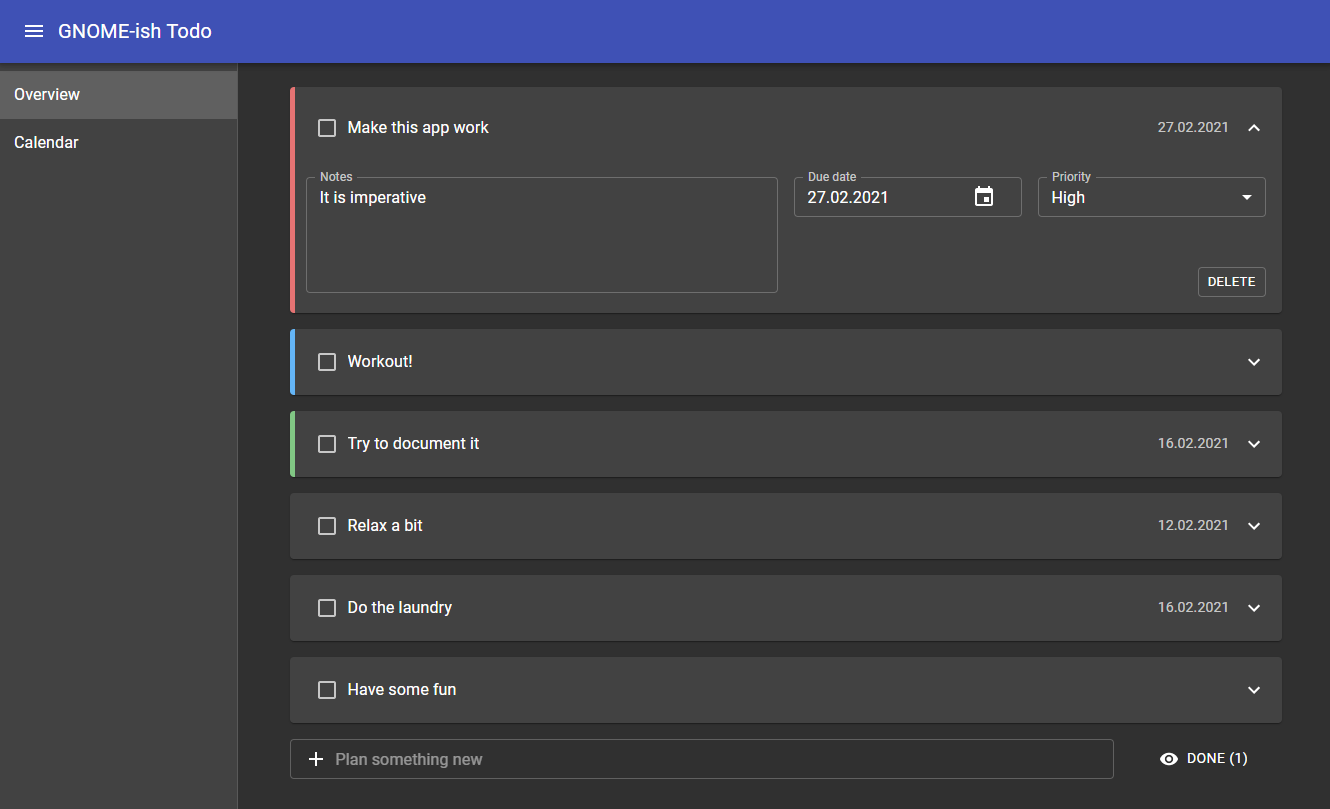
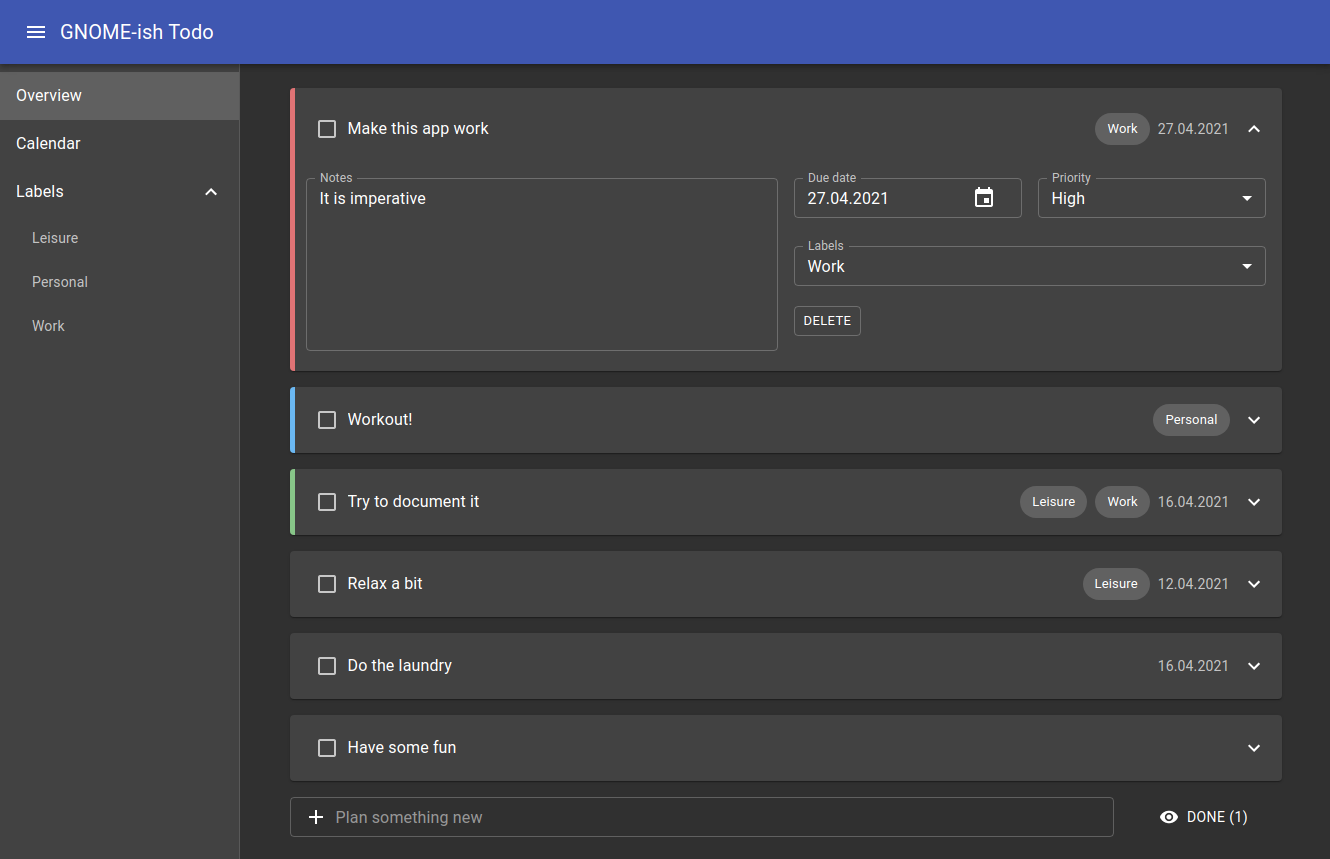
Updated readme.md

diff --git a/README.md b/README.md
@@ -2,10 +2,16 @@
 
 ![Preview](preview-1.png?raw=true)
 ![Preview](preview-2.png?raw=true)
+![Preview](preview-3.png?raw=true)
+![Preview](preview-4.png?raw=true)
 
 This project was bootstrapped with [Create React App](https://github.com/facebook/create-react-app) and used [Gnome TODO](https://wiki.gnome.org/Apps/Todo) as inspiration.
 
-Its aim is to showcase how easy is to use [Redux Toolkit](https://redux-toolkit.js.org/) instead of pure Redux, while building a todo app.
+Its aim is to showcase how easy is to use [Redux ToolKit](https://redux-toolkit.js.org/) (RTK) instead of pure Redux, while building a todo app. RTK includes utilities that help simplify many common use cases, including [store setup](https://redux-toolkit.js.org/api/configureStore), [creating reducers and writing immutable update logic](https://redux-toolkit.js.org/api/createreducer), and even [creating entire "slices" of state at once](https://redux-toolkit.js.org/api/createslice).
+
+**Two smaller demos are set up on CodeSandbox:**
+- [One for createSlice](https://codesandbox.io/s/createslice-playground-idwi3?file=/src/index.js)
+- [One for createEntityAdapter](https://codesandbox.io/s/createentityadapter-playground-cm5ye?file=/src/index.js)
 
 ### Motivation
 
@@ -18,18 +24,17 @@ The Redux Toolkit package is intended to be the standard way to write Redux logi
 ### Components Structure
 
 - `<App />`
-- `<NavigationMenu />` - this is the navigation menu that is used to switch between Calendar and Overview pages.
+- `<NavigationMenu />` - this is the navigation menu on the left
 - `<Calendar />` - connects to Redux to get all the Todos which have a `dueDate` by using the `selectWithDueDate` selector
-- `<Overview />` - connects to Redux to get all the Todos via `selectAll` or incomplete ones via `selectAllIncomplete`; it also dispatches `create` actions
-- `<Todo title description completionDate dueDate priority />` - used to render a Todo and to dispatch `update` and `remove` actions
+- `<Overview />` - connects to Redux to get all the Todos via `selectAll` or incomplete ones via `selectAllIncomplete`; optionally, if it receives `labelId` as a URL parameter, then it passes this to the aforementioned selectors; it also dispatches `create` actions;
+- `<Todo title description completionDate dueDate labels priority />` - used to render a Todo and to dispatch `update` and `remove` actions
+- `<LabelsSelect {...TextFieldProps} /> and <LabelsPreview value />` - components which help in working with Labels
 
 _Although the implementation is in React, this component structure would also work in Svelte, Vue, or Angular._
 
 ### Redux Structure
 
-The store is used to hold multiple Todos.
-
-A Todo implements this interface:
+The store is used to hold multiple Todos and Labels.
 
 ```typescript
 interface Todo {
@@ -40,14 +45,21 @@ interface Todo {
   dueDate?: Date | string;
   priority: TTodoPriority;
   completionDate?: Date | string;
+  labels: Array<Label["id"]>;
+}
+
+interface Label {
+  id: string;
+  title: string;
+  // TODO add a color?: string; property
 }
 ```
 
 There are only 3 actions:
 
-- `create({title}: {title: string})`
-- `update({id, changes}: {id: string; changes: Partial<Todo>})`
-- `remove(id: string)`
+- `todosActions.create({title}: {title: string})`
+- `todosActions.update({id, changes}: {id: string; changes: Partial<Todo>})`
+- `todosActions.remove(id: string)`
 
 From Redux Toolkit, these two are the main functions that were used:
 
@@ -87,5 +99,3 @@ export const { actions, reducer } = createSlice({
   },
 });
 ```
-
-Or you can check the whole redux code here: [https://github1s.com/cozmy/todo-react-redux/blob/HEAD/src/redux/todos.ts](https://github1s.com/cozmy/todo-react-redux/blob/HEAD/src/redux/todos.ts)
